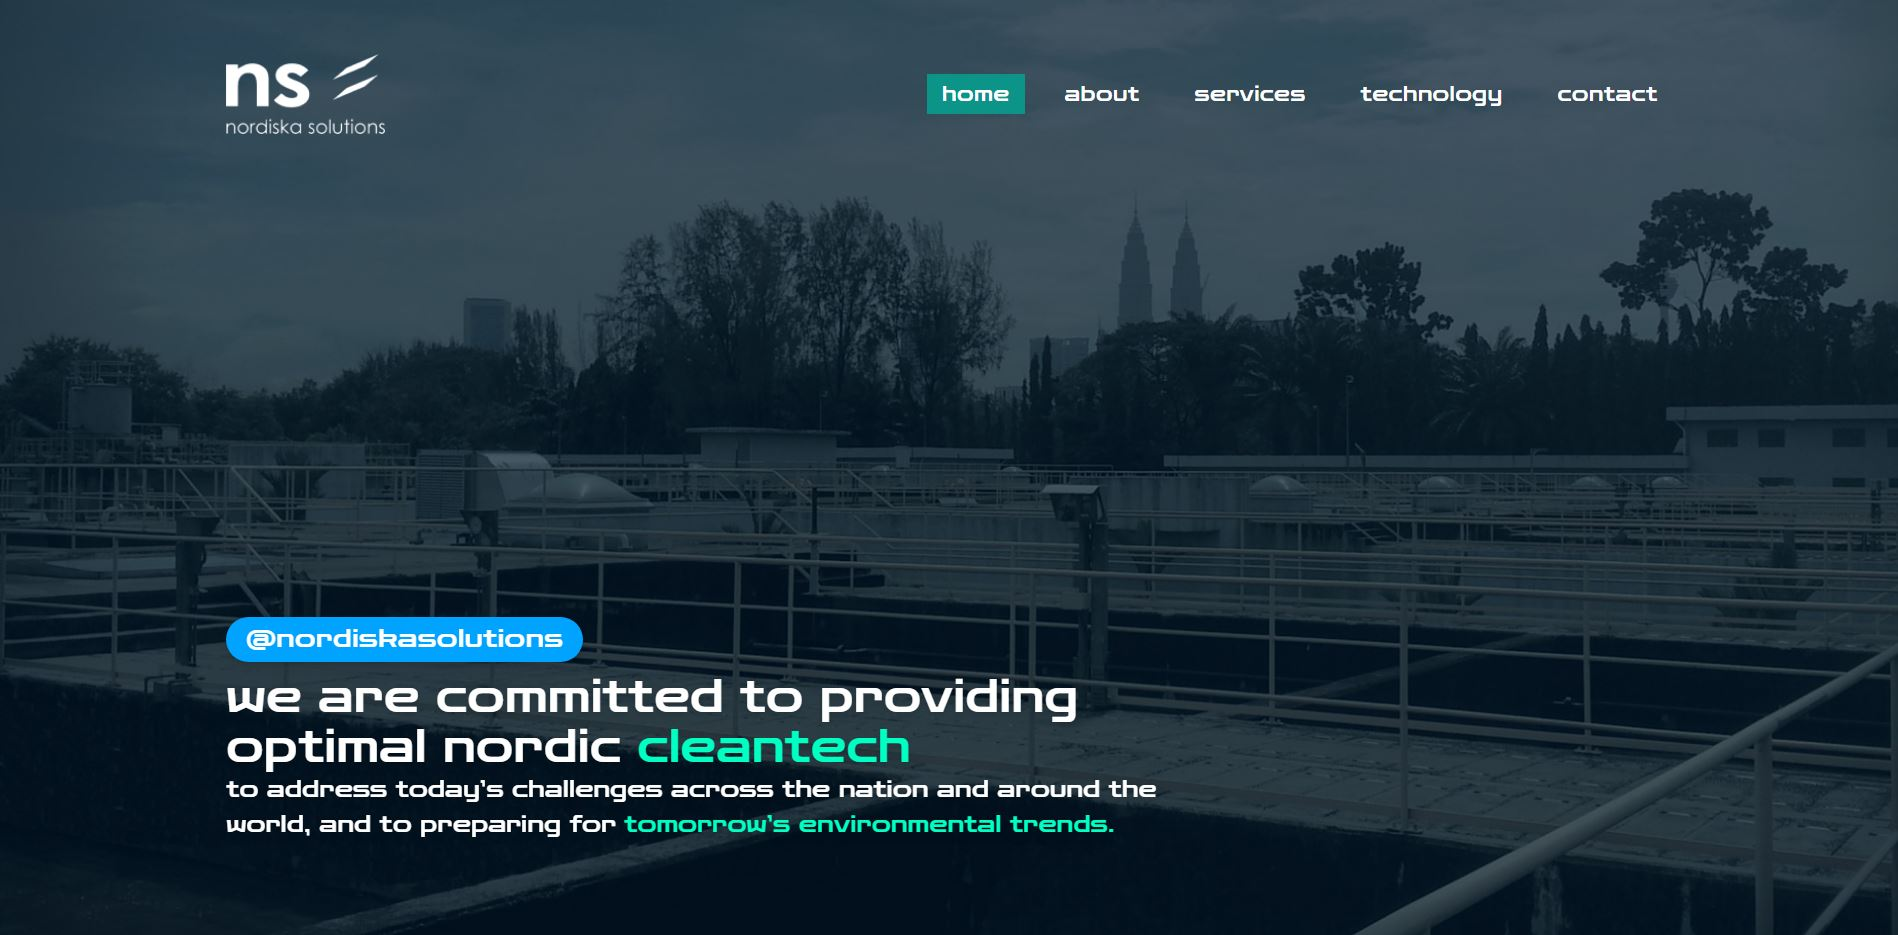
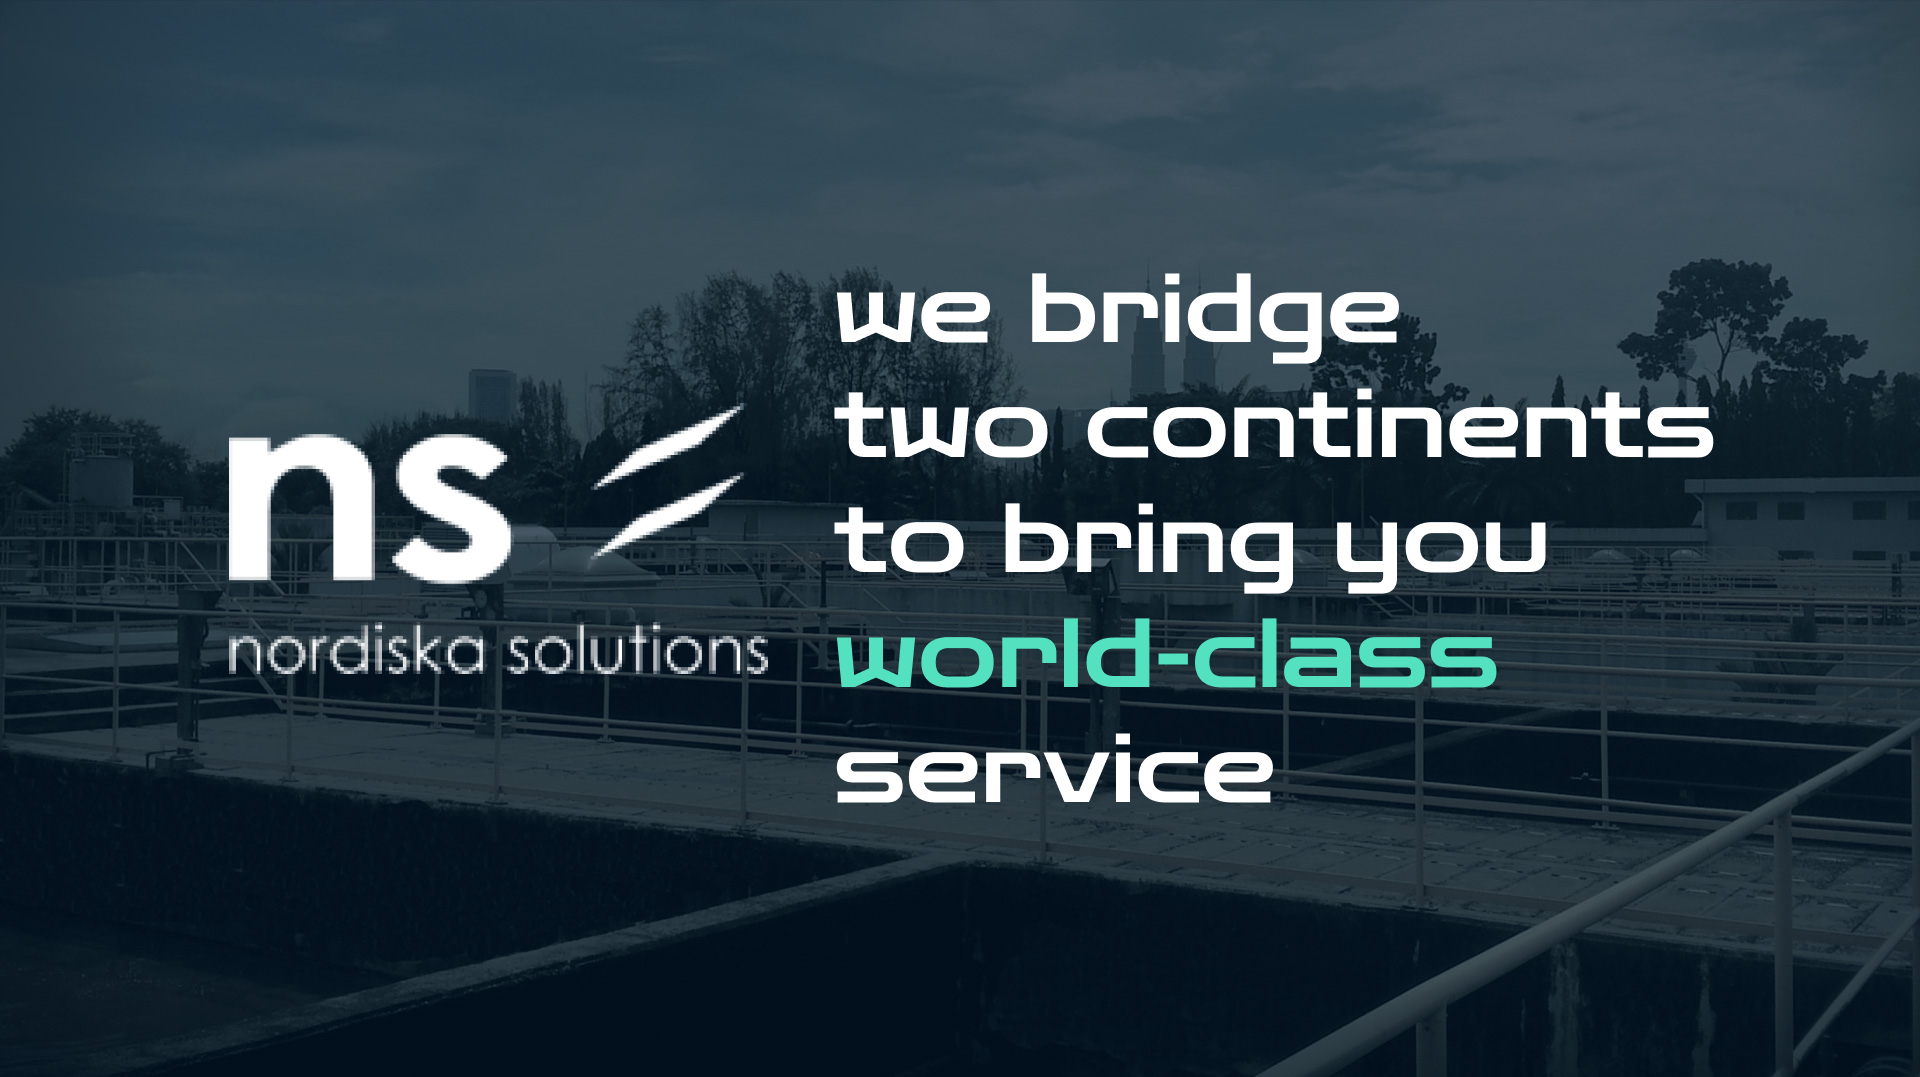
broken link / home redirect / india page

diff --git a/src/components/Services/IndianMarket.tsx b/src/components/Services/IndianMarket.tsx
@@ -21,32 +21,36 @@ const IndianMarket = (props: Props) => {
         <ContentLayout2Col uniqueId='business-matchmaking'>
           {{
             contentBody : (<>
-            <p>for any brand to target a particular market, it is very important to tap into its culture, network, and business pattern etc. to facilitate this, it needs the help of local expertise that understands both sides, and can help with progressive next steps. nordiska solutions has a tie-up with an indian specialist helping global cleantech technology companies and brands thrive in the indian market. we have developed ‘act’ – advisory, consulting and technology – solutions that include the following:</p>
+            <p>it is well known that for any brand to grow and prosper in  a particular market, it is very essential  to learn and understand   its culture, network, and business approach pattern etc.</p>
+
+            <p className='mt-10'>To facilitate this smoothly , it needs the support  of local expertise that understands all the stakeholders and accordingly can provide support with progressive next steps. </p>
+
+            <p className='mt-10'>nordiska solutions has a tie-up with an indian specialist to support  global cleantech technology companies to develop, nurture and manage their brand in the indian market through its customised “ACT” - advisory, consulting and technology (implementation / customization)  services  that include the following but not limited to :</p>
 
             <div className='flex gap-5 flex-col my-10'>
               <ListInfoCard>
                     {{
                       itemIcon : "/images/icon__technology__2.png",
-                      itemDescription : "application development and management for international technology partners with entry/re-entry in the indian market."
+                      itemDescription : "application development and management in the indian market (entry / re-entry)"
                     }}
               </ListInfoCard>
 
               <ListInfoCard>
                     {{
                       itemIcon : "/images/icon__technology__2.png",
-                      itemDescription : "plant de-bottlenecking and management of operations (technical support) of existing wtps/stps/waste water recycling systems"
+                      itemDescription : "pilots (proof of concept) development and management"
                     }}
               </ListInfoCard>
 
               <ListInfoCard>
                     {{
                       itemIcon : "/images/icon__technology__2.png",
-                      itemDescription : "special project development and management of community wtps/stps/waste water recycle/desalination plants through technology support for associates/channel partners/oems/epc contractors"
+                      itemDescription : "project development and management"
                     }}
               </ListInfoCard>
             </div>
 
-            <p>for additional details of act solutions and services please get in touch with us.</p>
+            {/* <p>for additional details of act solutions and services please get in touch with us.</p> */}
             
 
             </>),
@@ -55,7 +59,7 @@ const IndianMarket = (props: Props) => {
           }}
         </ContentLayout2Col>
 
-        <ContentSeparater bgCSS={{ backgroundColor : "#783D45" }}>
+        {/* <ContentSeparater bgCSS={{ backgroundColor : "#783D45" }}>
           {{
             imageURLs : [
               "/images/icon__indian__market__1.png",
@@ -63,7 +67,7 @@ const IndianMarket = (props: Props) => {
               "/images/icon__indian__market__3.png"
               ]
           }}
-        </ContentSeparater>
+        </ContentSeparater> */}
 
       </CommonContainer>
   </>)

diff --git a/index.html b/index.html
@@ -5,6 +5,13 @@
     <meta http-equiv="X-UA-Compatible" content="IE=edge" />
     <meta name="viewport" content="width=device-width, initial-scale=1.0" />
     <meta name="description" content="nordiska solutions is a finnish-malaysian company which has developed a cluster business concept with some leading environmental companies in europe and asia specialised in water, wastewater and solid waste management technologies and solutions">
+    <meta name=”robots” content="index, follow">
+
+    <meta property="og:title" content="Nordiska Solutions - we bridge two continents to bring you world-class service" />
+    <meta property="og:url" content="https://www.nordiskasolutions.com/" />
+    <meta property="og:image" content="https://www.nordiskasolutions.com/images/nordiska__solutions__preview.jpg" />
+    <meta property="og:type" content="website" />
+    <meta property="og:description" content="nordiska solutions is a finnish-malaysian company which has developed a cluster business concept with some leading environmental companies in europe and asia specialised in water, wastewater and solid waste management technologies and solutions" />
 
     <link rel="shortcut icon" href="/images/favicon.ico" type="image/x-icon">
     <link rel="icon" href="/images/favicon.ico" type="image/x-icon">
@@ -12,7 +19,7 @@
     <link rel="preconnect" href="https://fonts.gstatic.com" crossorigin>
     <link href="https://fonts.googleapis.com/css2?family=Zen+Dots&family=Zen+Loop&family=Zen+Maru+Gothic:wght@300;400&display=swap" rel="stylesheet">
 
-    <title>Nordiska Solutions</title>
+    <title>Nordiska Solutions - we bridge two continents to bring you world-class service</title>
   </head>
   <body class="bg-black tracking-wide min-w-[320px]">
     <div id="root"></div>

diff --git a/src/App.tsx b/src/App.tsx
@@ -1,5 +1,5 @@
 import { useEffect } from 'react'
-import { Route, Routes, useLocation } from 'react-router-dom'
+import { Route, Routes, useLocation, Navigate } from 'react-router-dom'
 import './App.css'
 import Header from './components/Header'
 import BuildingInfoModeling from './components/Services/BuildingInfoModeling'
@@ -41,7 +41,7 @@ function App() {
       <ScrollToTop />
       <Header /> 
       <Routes>
-        <Route path='/' element= {<Home />}   />
+        <Route path='home' element= {<Home />}   />
         <Route path='about' element = {<About />} />
         <Route path='contact' element = {<Contact />} />
         <Route path='technology' element = {<Technology />} />
@@ -56,6 +56,8 @@ function App() {
           <Route path='gateway-to-indian-market' element = {<IndianMarket />} />
           <Route path='building-information-modeling' element = {<BuildingInfoModeling />} />
         </Route>
+        <Route path='/' element = { <Navigate to="/home" /> } />
+        <Route path='*' element = { <Navigate to="/home" /> } />
       </Routes>
     </>
   )

diff --git a/src/components/Header.tsx b/src/components/Header.tsx
@@ -1,4 +1,5 @@
 import React from 'react'
+import { NavLink } from 'react-router-dom'
 import Navbar from './Navbar'
 
 type Props = {}
@@ -8,13 +9,14 @@ const Header = (props: Props) => {
     
   <header className="absolute w-full min-w-[320px]">
     <div className="relative container py-[3vw] h-auto min-h-0 flex items-center justify-between space-x-10 ">
-      <a href="/" className=' flex-shrink-0'>
+
+      <NavLink className={'flex-shrink-0'} to="/home">
         <img
           className="h-14 lg:h-16 aspect-auto align-middle"
           src="/images/ns__logo__trans1.png"
           alt="Nordiska Solutions Logo"
         />
-      </a>
+      </NavLink>
       <Navbar />
     </div>
   </header>

diff --git a/src/components/Navbar.tsx b/src/components/Navbar.tsx
@@ -41,7 +41,7 @@ const Navbar = (props: Props) => {
         className = { isHidden + ' fixed right-0 top-0 min-h-screen h-full w-2/3 z-10 font-zen text-lg bg-zinc-800 bg-opacity-90 pt-30 md:relative md:flex md:flex-row md:w-auto md:h-auto md:min-h-0 md:bg-transparent md:space-x-0 lg:space-x-5  md:top-0 text-white lg:text-base md:text-sm'}
       >
         <li className="nav-item">
-          <NavLink to="/"><span>home</span></NavLink>
+          <NavLink to="/home"><span>home</span></NavLink>
         </li>
         <li className="nav-item">
           <NavLink to="/about"><span>about</span></NavLink>
